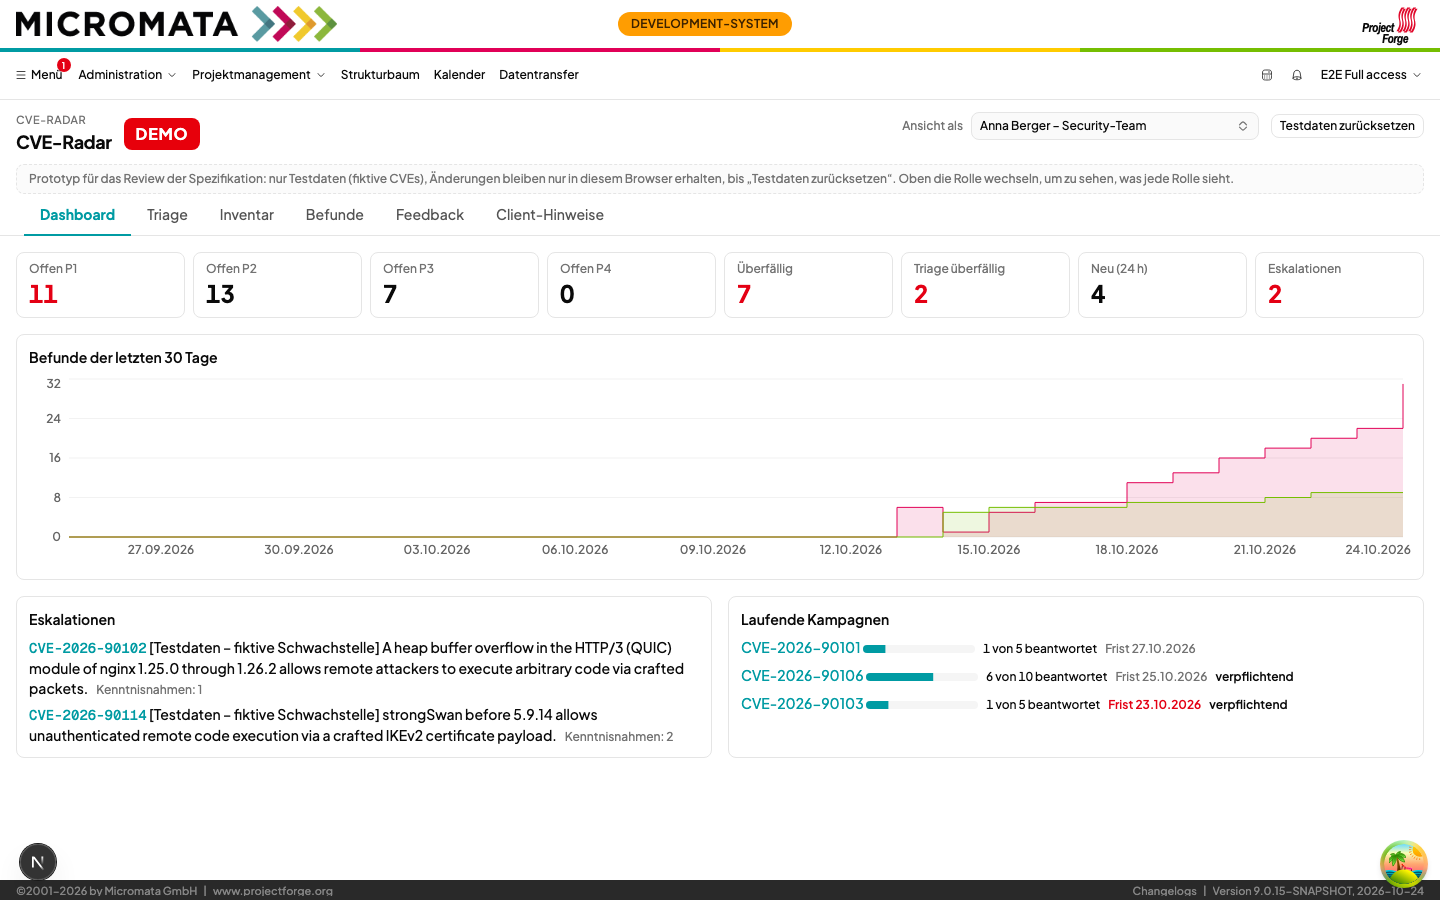
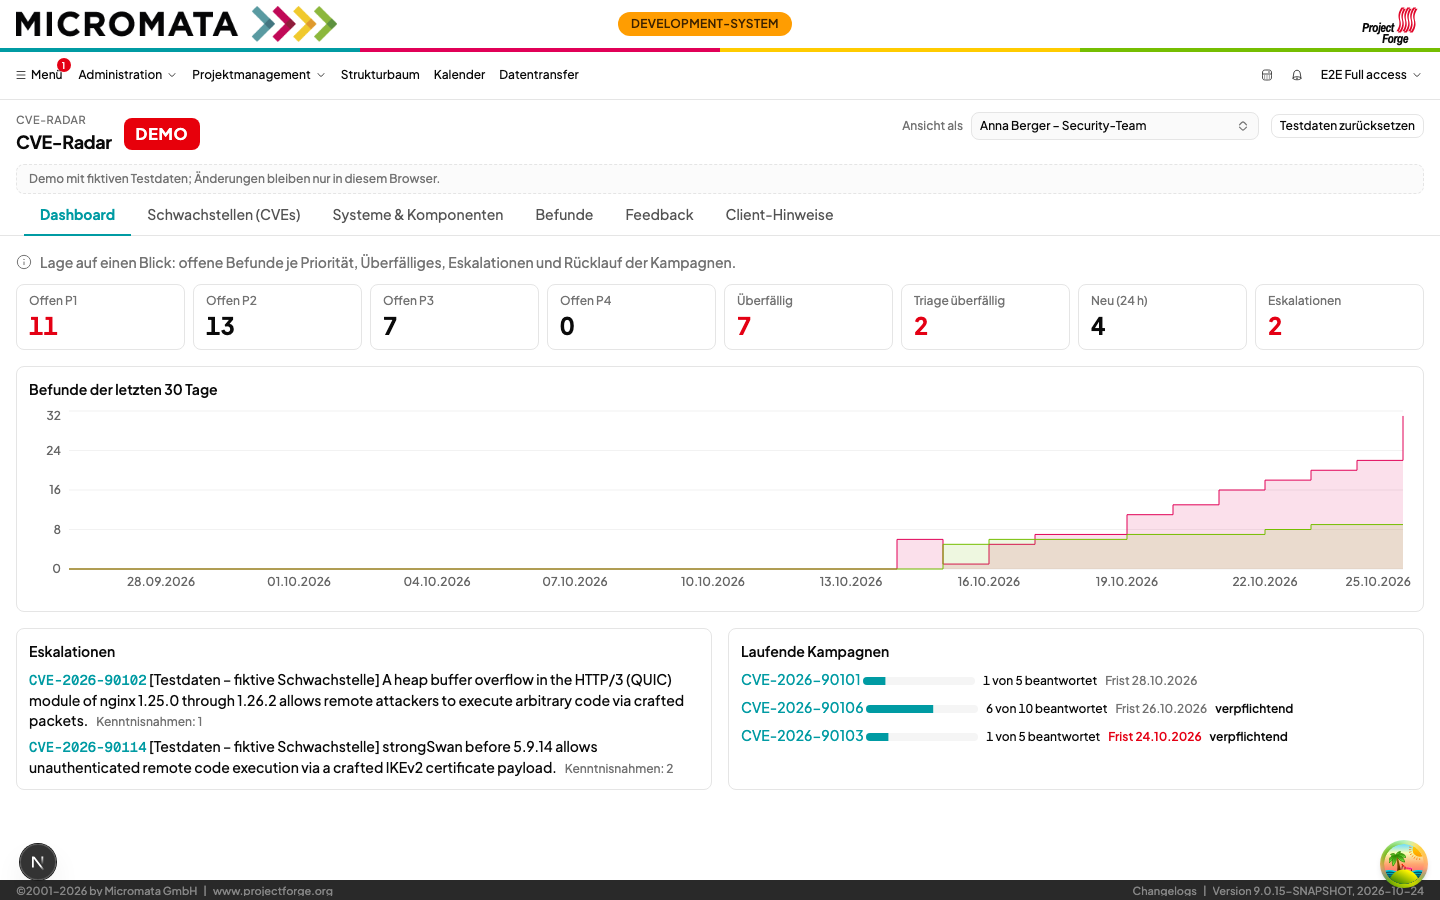
docs(cve-radar): overview lists of vulnerabilities and systems (PF-CVR 0.7)
TRI-10 list of all vulnerabilities with findings by status, INV-22 status per
node of the inventory tree, VIS-11 for a team's system in a foreign area; the
German overview describes the start page tabs, with new screenshots.

diff --git a/doc/requirements/PF-CVR_CVE-Radar_Vulnerability_Management.md b/doc/requirements/PF-CVR_CVE-Radar_Vulnerability_Management.md
@@ -4,9 +4,9 @@
 |---|---|
 | COMP-ID | PF-CVR |
 | DOC-ID | PF-CVR-REQ |
-| Status | Draft 0.6 (system hierarchy, loose coupling, discussion via PF-CHAT) |
+| Status | Draft 0.7 (overview lists of vulnerabilities and systems) |
 | Owner | Kai Reinhard |
-| Date | 2026-10-24 |
+| Date | 2026-10-25 |
 | Stage | Specification only (release cut follows) |
 
 ---
@@ -131,6 +131,7 @@ Priority by MoSCoW: **M** = Must, **S** = Should, **C** = Could, **W** = Won't (
 | TRI-07 | Mass actions must be possible: assign several vulnerabilities, close as "not relevant", set priority (with reason). | M | volume |
 | TRI-08 | Similar or related vulnerabilities (same component, same advisory) should be bundled and processed together. | S | |
 | TRI-09 | Work templates (checklists per vulnerability type/CWE) could be stored and copied into the documentation. | C | |
+| TRI-10 | Besides the inbox, the system must offer a list of all imported vulnerabilities, sortable and filterable by every column, with the triage status and per vulnerability the number of its visible findings by status (open, in progress, done); a filter restricts it to vulnerabilities with findings. | M | central overview |
 
 ### 5.4 PF-CVR-ESC – Escalation
 
@@ -199,6 +200,7 @@ once (`MAIL`, implicit default instance).
 | INV-19 | A system should be movable to another area; the effective group and visibility are recomputed, the move is historised. | S | |
 | INV-20 | Levels with open findings must not be deleted, only archived. | M | evidence |
 | INV-21 | The hierarchy could be imported and exported via CSV/Excel. | C | |
+| INV-22 | The inventory tree must show per node (area, system, instance, component) the highest priority, the number of affected vulnerabilities and their findings by status (open, in progress, done), and must be filterable to nodes with findings. | M | central overview, VIS-02 applies |
 
 ### 5.7 PF-CVR-MATCH – Affectedness
 
@@ -299,7 +301,7 @@ affected is visible only to those who need to know the system. "System X is vuln
 | VIS-08 | Feedback campaigns show every team only its own systems; the response overview (FB-08) shows systems according to VIS-02, otherwise only counts per status. | M | |
 | VIS-09 | Discussion and Q&A of a vulnerability are system-neutral; discussions about a specific finding belong to the finding and have its visibility. | M | complements DISC-02, DISC-03 |
 | VIS-10 | Key figures and reports for persons without system visibility are output only aggregated (count, per priority/status), without small groups allowing conclusions (e.g. a group with a single system). | S | |
-| VIS-11 | The master data of areas (name, code, group) is visible to ST, SO, MG and CA; which systems an area contains only according to VIS-02; counts per area are subject to VIS-10. | M | |
+| VIS-11 | The master data of areas (name, code, group) is visible to ST, SO, MG, CA and the area's group; which systems an area contains only according to VIS-02; counts per area are subject to VIS-10. The responsible group of a system in another area sees that area only as the parent of its system, without the number of its other systems. | M | |
 | VIS-12 | In an escalation SO and MG see all affected systems of the escalated vulnerability, including strictly confidential ones; this access is logged. | M | ESC |
 | VIS-13 | Every access must be logged. Changes: via the history of `DefaultBaseDO` (who, when, what). Read access to systems, instances, components and findings (detail view, export, search hits, REST): via a new access log (user, time, object, kind of access), since the history records changes only. | M | no read-access log exists in PF yet |
 | VIS-14 | The access log of a system must be visible to the SO and the responsible group, filterable by user and period; it is kept for a configurable time (default: as NFR-07) and cannot be changed by anybody, the CA included. | M | |
@@ -344,7 +346,7 @@ affected is visible only to those who need to know the system. "System X is vuln
 
 To be built: Q&A, inventory hierarchy with baseline/deviations, CPE/purl matching, AI prompt/JSON import.
 
-## 7. Decisions (as of 0.6)
+## 7. Decisions (as of 0.7)
 
 | # | Topic | Decision | Requirements |
 |---|---|---|---|
@@ -373,7 +375,7 @@ To be built: Q&A, inventory hierarchy with baseline/deviations, CPE/purl matchin
 
 ## 9. Next steps
 
-1. Review of this version 0.6 together with [PF-CHAT](PF-CHAT_Chat_Discussion.md) 0.2.
+1. Review of this version 0.7 together with [PF-CHAT](PF-CHAT_Chat_Discussion.md) 0.2.
 2. Release cut (proposal: R1 = IMP, PRIO, TRI, ESC, INV, MATCH, VIS, AI; R2 = FB, NOT, ACT; R3 = DISC, QA, RPT; DISC requires PF-CHAT R1).
 
 **Verification of the specification:** every Must requirement is phrased actively and testable by an acceptance

diff --git a/doc/requirements/PF-CHAT_Chat_Discussion.md b/doc/requirements/PF-CHAT_Chat_Discussion.md
@@ -223,5 +223,5 @@ None at the moment.
 
 ## 10. Next steps
 
-1. Review of this version 0.2 together with PF-CVR 0.6.
+1. Review of this version 0.2 together with PF-CVR 0.7.
 2. Release cut: PF-CHAT R1 (CTX, MSG incl. reactions, THR, ATT, NOT-01 – NOT-06, SEC) before PF-CVR DISC; the cleanup job (CTX-08) later.
